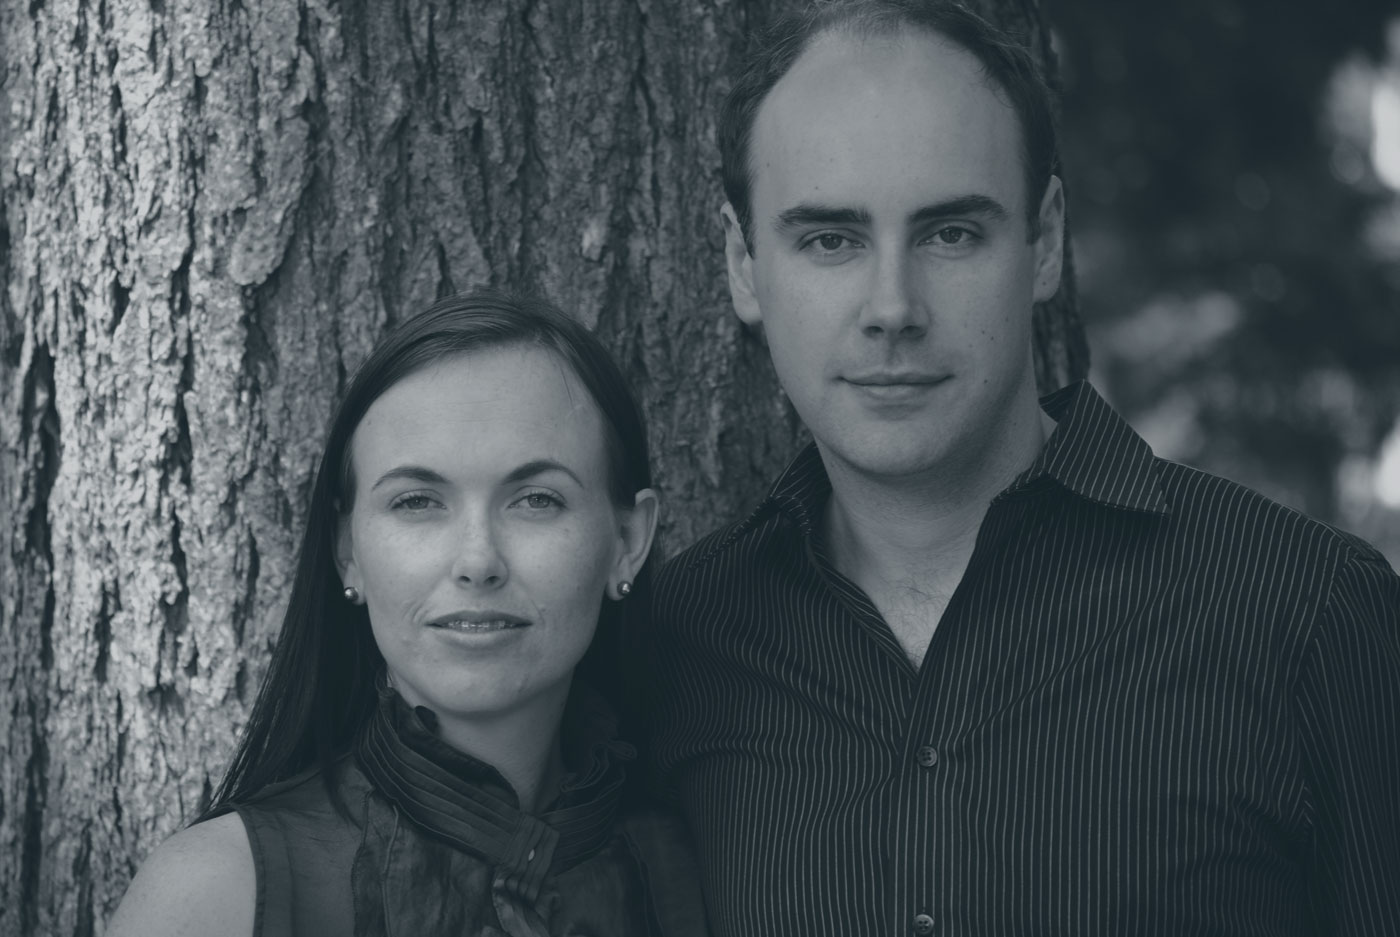
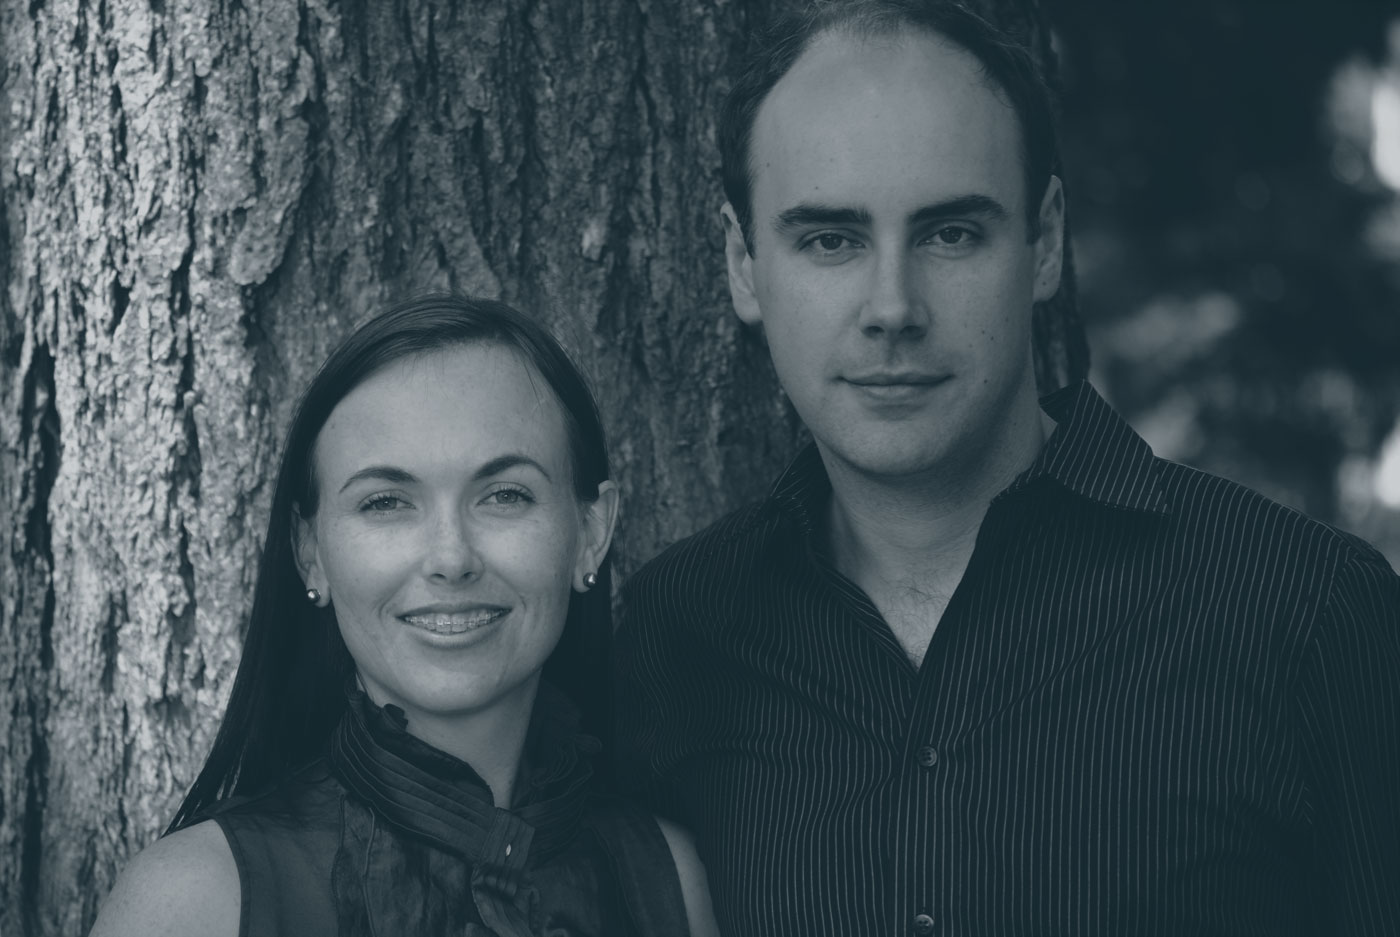
Drop in service illustrations

diff --git a/index.html b/index.html
@@ -19,9 +19,9 @@ title: Søren
   <div class="wrapper">
     <h2 class="section-title">Who We Are</h2>
     <p>
-      We help businesses with production apps that are in trouble. When the app
-      isn't stable, the infrastructure is unreliable, adding features is too
-      difficult or you can't upgrade, it's time for a rescue.
+      We help business with production apps that are in a bit of a quandary.
+      When the app isn't stable, the infrastructure is irritable, adding
+      features is too difficult or you can't upgrade, it's time for a rescue.
     </p>
   </div>
 </section>
@@ -31,7 +31,7 @@ title: Søren
     <h2 class="section-title">What We Do</h2>
 
     <div class="services-item">
-      <img src="http://placehold.it/350x250">
+      <img src="/assets/legacy.jpg">
       <h3>Modernize Legacy Apps</h3>
       <p>
         Is the Rails app powering your business perpetually in maintenance
@@ -42,19 +42,21 @@ title: Søren
       </p>
     </div>
 
+
     <div class="services-item">
-      <img src="http://placehold.it/320x250">
-      <h3>Rescue a Project</h3>
+      <img src="/assets/monolith.jpg">
+      <h3>Break Up a Monolith</h3>
       <p>
-        In the early days your app saw new features added quickly and easily.
-        However, increasingly the team's time is dominated by fighting bugs,
-        performance fixes, and perpetual "refactoring". The project needs to
-        be rescued. We'll help you get things back to the salad days.
+        Monolithic apps are ideal when starting a project, but as they mature
+        they balloon in complexity and become a drain on the team. We'll lead
+        you to a more maintainable project by extracting performance critical
+        modules, spinning discrete subsystems out into services, and layering
+        independent client side apps.
       </p>
     </div>
 
     <div class="services-item">
-      <img src="http://placehold.it/320x250">
+      <img src="/assets/stability.jpg">
       <h3>Stabilize Infrastructure</h3>
       <p>
         Has the fear of unplanned downtime made deploying new code infrequent
@@ -65,14 +67,13 @@ title: Søren
     </div>
 
     <div class="services-item">
-      <img src="http://placehold.it/320x250">
-      <h3>Break Up a Monolith</h3>
+      <img src="/assets/rescue.jpg">
+      <h3>Rescue a Project</h3>
       <p>
-        Monolithic apps are ideal when starting a project, but as they mature
-        they balloon in complexity and become a drain on the team. We'll lead
-        you to a more maintainable project by extracting performance critical
-        modules, spinning discrete subsystems out into services, and layering
-        independent client side apps.
+        In the early days your app saw new features added quickly and easily.
+        However, increasingly the team's time is dominated by fighting bugs,
+        performance fixes, and perpetual "refactoring". The project needs to
+        be rescued. We'll help you get things back to the salad days.
       </p>
     </div>
   </div>

diff --git a/_sass/_services.scss b/_sass/_services.scss
@@ -1,6 +1,6 @@
 .team {
   background-size: cover;
-  background-position: center center;
+  background-position: center 40%;
   background-image: url('/assets/portrait-toned.jpg');
 
   color: $color-white;
@@ -52,16 +52,12 @@
 }
 
 .services-item {
-  -webkit-box-flex: 50%;
-  -webkit-flex: 50% 0;
-      -ms-flex: 50% 0;
-          flex: 50% 0;
+  -webkit-box-flex: 48%;
+  -webkit-flex: 48% 0;
+      -ms-flex: 48% 0;
+          flex: 48% 0;
 
   margin-bottom: line-units(2);
-
-  &:nth-of-type(odd) {
-    padding-right: grid-units(2);
-  }
 
   @media (max-width: 320px) {
     -webkit-box-flex: 100%;
@@ -71,11 +67,16 @@
     padding-left: grid-units(2);
     padding-right: grid-units(2);
   }
+
+  img {
+    width: 100%;
+  }
 }
 
 .inquire {
   border-top: 1px solid $color-soft;
-  padding: line-units(4) 0;
+  padding-top: line-units(4);
+  padding-bottom: line-units(4);
   text-align: center;
 }
 
